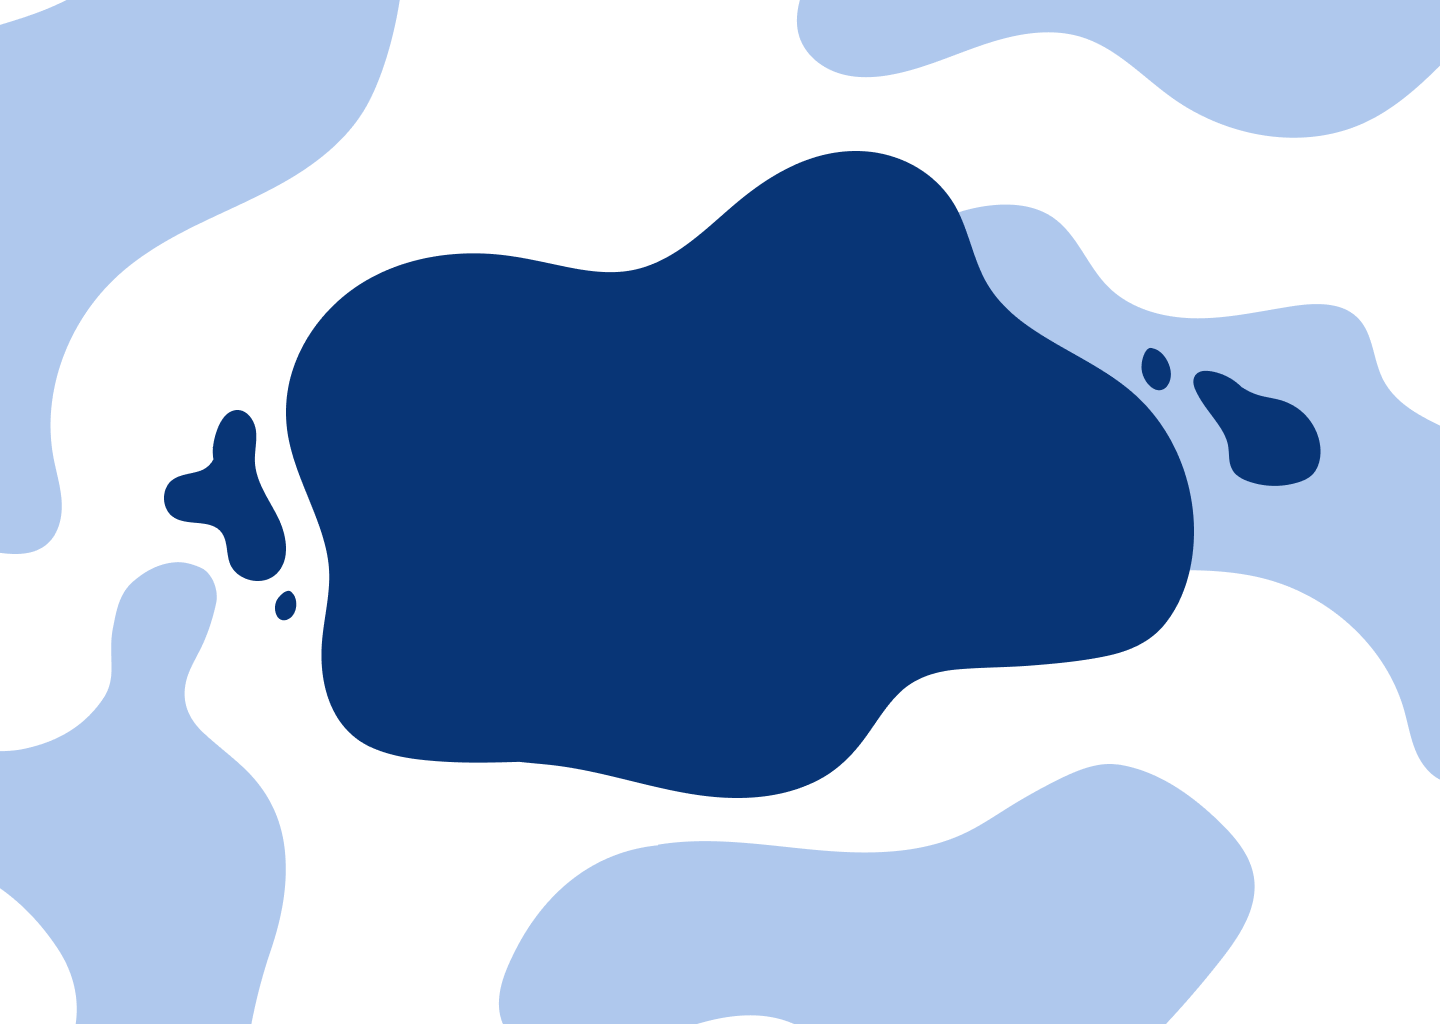
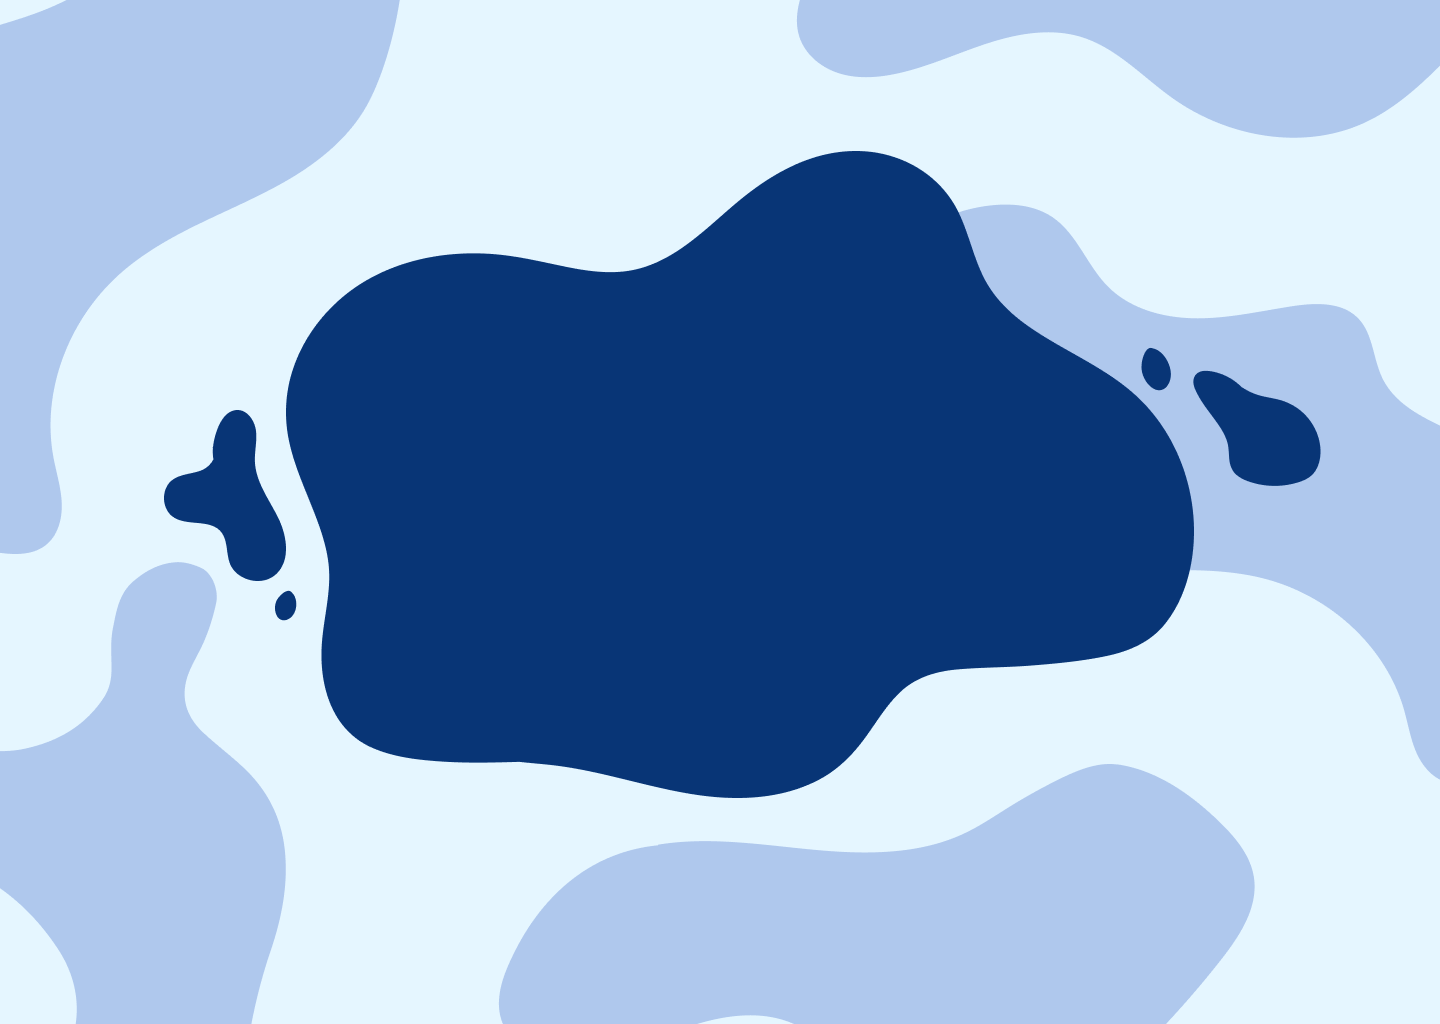
addedd bg image

diff --git a/src/components/GlobalStyle.jsx b/src/components/GlobalStyle.jsx
@@ -1,4 +1,5 @@
 import {createGlobalStyle} from 'styled-components'
+import background from '../assets/background.png'
 
 const GlobalStyle = createGlobalStyle`
   @font-face {
@@ -26,7 +27,11 @@ const GlobalStyle = createGlobalStyle`
     text-rendering: optimizelegibility;
     background-color: #E5F6FF;
     color: #083576;
-    background-image: url('../assets/background.png');
+    background-image: url(${background});
+    background-repeat: no-repeat;
+    background-attachment: fixed;
+    background-position: center;
+    overflow: hidden;
   }
 
   body,
@@ -64,7 +69,7 @@ const GlobalStyle = createGlobalStyle`
 
   p {
     margin: 0;
-    font-size: 1rem;
+    font-size: 16px;
   }
 
   p.date {
@@ -92,14 +97,14 @@ const GlobalStyle = createGlobalStyle`
   label,
   input,
   textarea {
-    font-size: 1.2rem;
+    font-size: 20px;
     font-family: 'Authentic Sans';
     background-color: #E5F6FF;
   }
 
   input,
   textarea {
-    padding: 0.8rem;
+    padding: 12px;
     margin: 0.4rem 0 2rem 0;
     border-radius: 0.2rem;
     border: 3px solid #ED6F95;
@@ -115,12 +120,12 @@ const GlobalStyle = createGlobalStyle`
 
   .error-message {
     color: #ED6F95;
-    margin: 0.6rem 0;
-    font-size: 1rem;
+    margin: 10px 0;
+    font-size: 16px;
   }
 
   section#thought {
-    margin: 13rem auto;
+    margin: 208px auto;
     justify-content: center;
     align-items: center;
     width: 75%;
@@ -129,27 +134,29 @@ const GlobalStyle = createGlobalStyle`
   img.blob {
     display: inline-block;
     z-index: -10;
-    position: fixed;
-    bottom: -3%;
-    right: 1%;
-    width: 90%;
+    position: relative;
+    bottom: 500px;
+    margin: auto;
+    text-align: center;
+    width: 900px;
+    height: 650px;
     overflow: hidden;
   }
 
   @media only screen and (max-width: 700px) {
     h2 {
-      font-size: 1.8rem;
+      font-size: 28px;
     }
 
     h3 {
-      margin: 1rem 0;
+      margin: 16px 0;
     }
 
     form {
       width: auto;
       height: fit-content;
       margin: 0;
-      padding: 3rem;
+      padding: 48px;
       top: 0;
       left: 0;
       right: 0;

diff --git a/src/App.js b/src/App.js
@@ -5,7 +5,6 @@ import Thought from './components/Thought.jsx'
 import AddThoughtForm from './components/AddThoughtForm.jsx'
 import Header from './components/Header.jsx'
 import BgOverlay from './components/BgOverlay.jsx'
-import BlobBackground from './assets/blob.png'
 
 class App extends Component {
   state = {
@@ -82,7 +81,6 @@ class App extends Component {
             </>
           ) : null}
           <Thought thought={thoughts[selectedIndex]} />
-          <img src={BlobBackground} className="blob" />
           <h1 className="title-2">Thoughts</h1>
         </Wrapper>
       </section>
